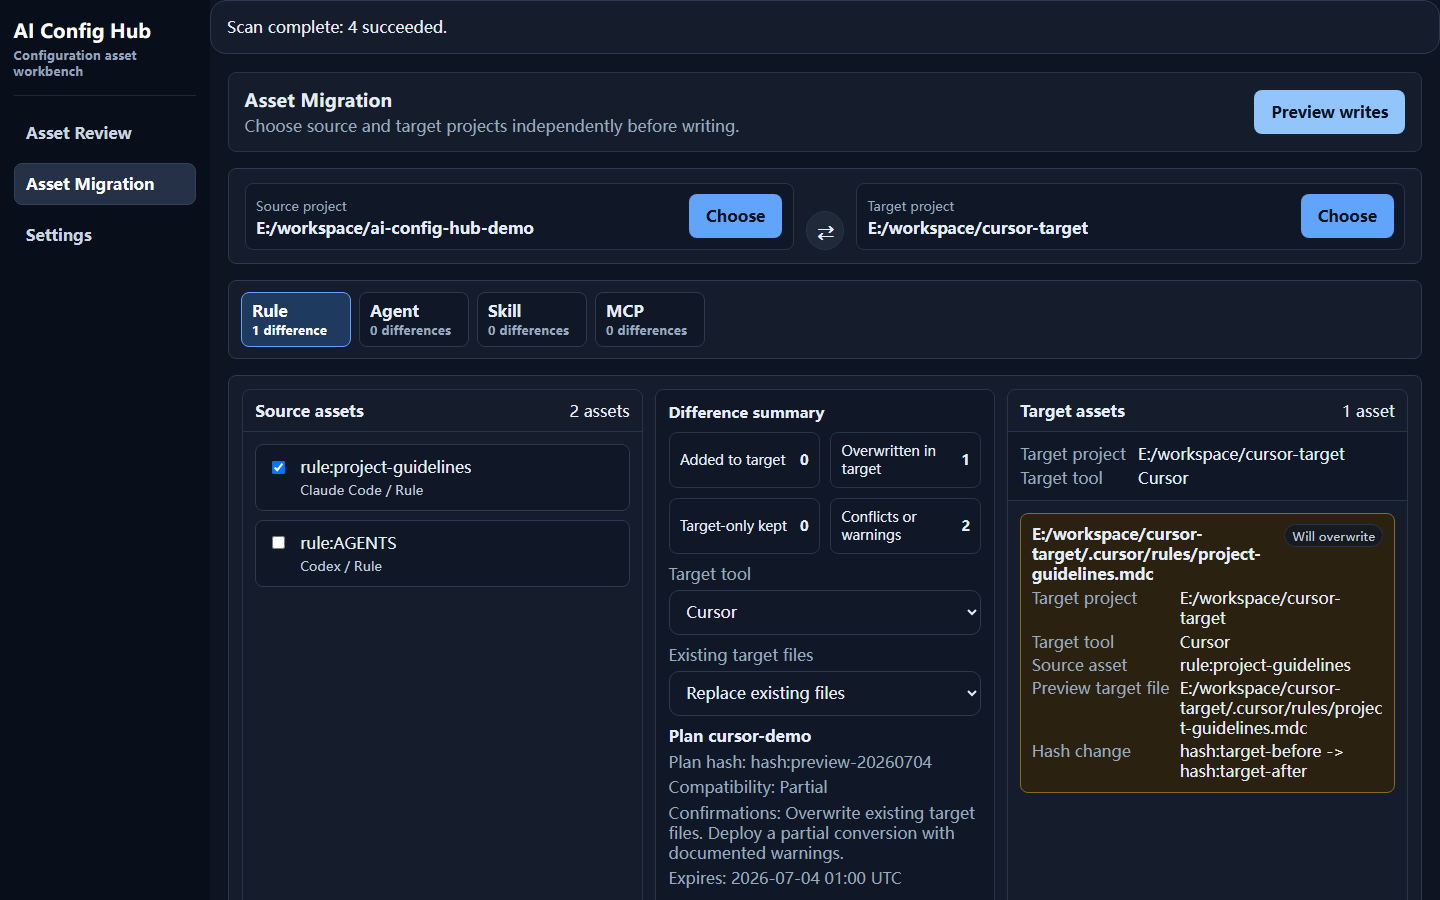
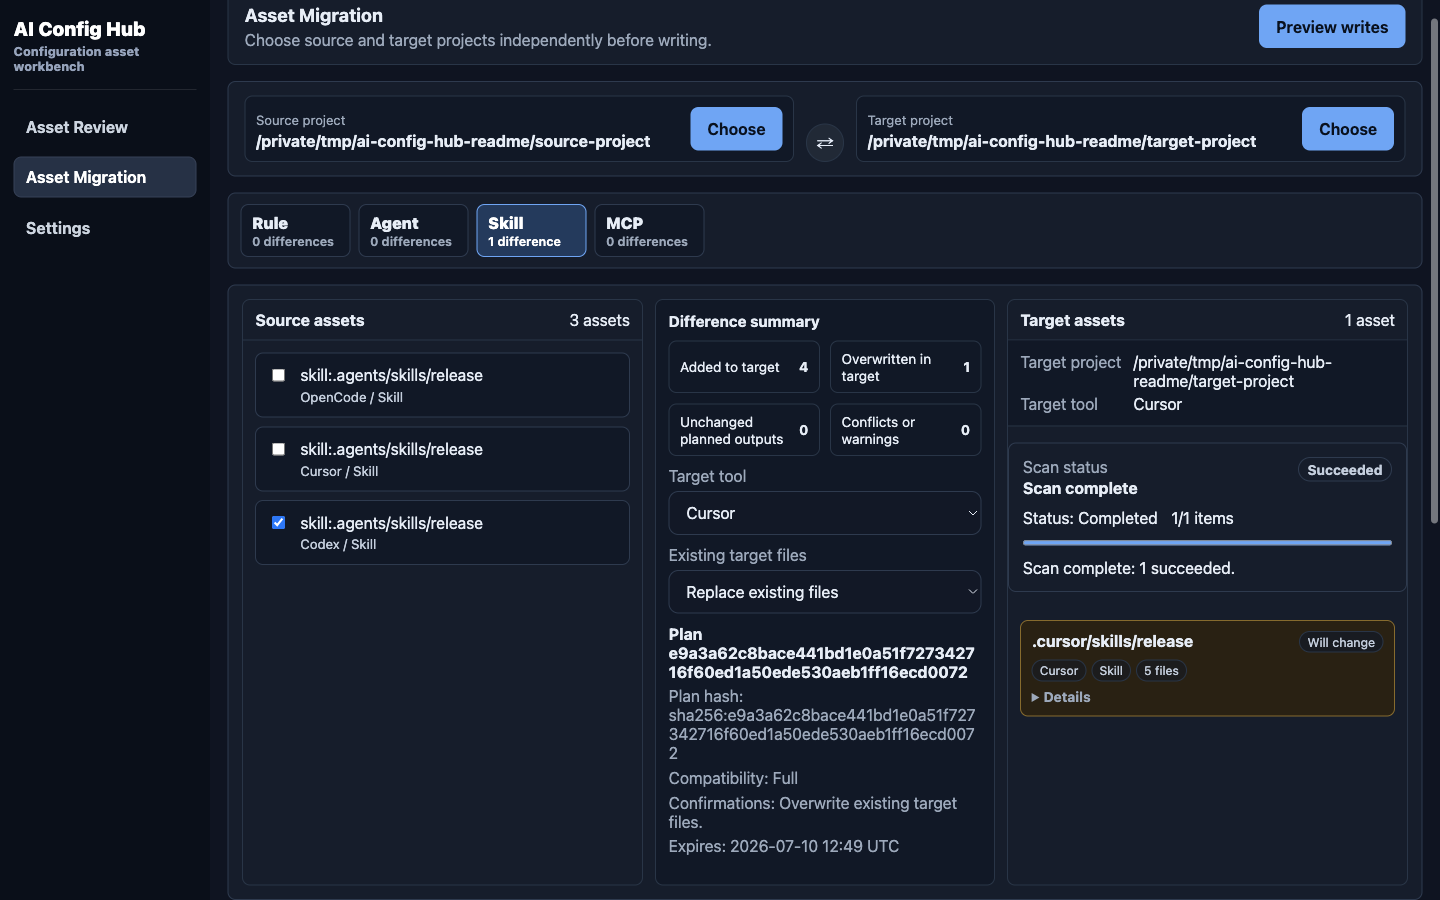
docs: refresh implemented features and screenshots

diff --git a/README.en.md b/README.en.md
@@ -18,13 +18,17 @@ It is not a simple file sync tool. Before writing, AI Config Hub surfaces target
 
 ### Current Experience
 
-The desktop app is the most complete UX entry point today. Its sidebar has three workspaces:
+The current code version is `0.2.18`. The Electron desktop app is the most complete UX entry point, with three workspaces in its sidebar:
 
-- **Asset Review**: select a current project and scan automatically; filter Rules, Agents, Skills, and MCP assets by tool and resource type; review logical keys, source directories, load state, diagnostic counts, and asset detail.
-- **Asset Migration**: choose source and target projects independently, select source assets, target tool, and conflict policy, create a write preview, then confirm hashes, field loss, overwrite/delete risks, and execute the migration.
-- **Settings**: configure theme and language, including system, light, dark, English, and Simplified Chinese.
+- **Asset Review**: select a current project and scan automatically; browse Rules, Agents, Skills, and MCP by tool and resource type; inspect scope, source, loaded/covered/disabled state, and diagnostic counts. Workspace diagnostics can be filtered by severity and diagnostic code, then located back to the associated asset.
+- **Asset Migration**: choose or swap source and target projects independently, compare both sides, and select source assets, a target tool, and a `fail`, `replace`, or `merge` conflict policy. Every migration must create a preview before hashes, field loss, and overwrite/delete risks are confirmed for execution.
+- **Settings**: configure system/light/dark theme and English/Simplified Chinese language; selectively clear scan cache, deployment history, or preferences without deleting project configuration or recovery backups. Packaged Windows and Linux builds can also check for, download, and restart to install updates.
 
-The asset detail dialog can open the source file, enable or disable an asset, load effective configuration, and show normalized content, references, contributors, ignored assets, and effective diagnostics. The migration page shows difference summaries, target file changes, retained/dropped/transformed fields, source drift, source/target hash snapshots, and task execution status.
+The asset detail dialog can open a source, choose an appropriate enable/disable method, inspect normalized content and references, and load effective configuration. Effective resolution explains inherited, merged, and overridden contributors; ignored assets and covering relationships; diagnostics; and the snapshot revision.
+
+Skills are handled as complete directory packages rather than only as a `SKILL.md` file. Asset Review summarizes file, folder, text, and binary counts and shows the package tree. Migration generates the target `SKILL.md`, copies text and binary support files, and checks package-wide hashes and drift. The move-file disablement method moves the entire Skill directory package and allows it to be restored.
+
+Scans report phases, progress, and item failures, and can be cancelled before the index commit begins. The desktop app watches scanned roots by default and incrementally refreshes the index; changes affecting either side of a migration retire stale previews. After a renderer reload, the app also attempts to reconnect to active scan, deployment, or rollback tasks.
 
 ### Visual Overview
 
@@ -34,11 +38,13 @@ The asset detail dialog can open the source file, enable or disable an asset, lo
 
 #### Current Desktop Workflow
 
-The screenshots come from the desktop review and migration flow and are cropped so the local path bar is not shown.
+The screenshots use a sanitized demo project and one shared English dark-theme capture set.
 
-| Asset review                                                                                 | Migration preview                                                                                            | Settings                                                                                   |
-| -------------------------------------------------------------------------------------------- | ------------------------------------------------------------------------------------------------------------ | ------------------------------------------------------------------------------------------ |
-| <img src="./docs/readme/assets/desktop-assets.png" alt="Asset review interface" width="300"> | <img src="./docs/readme/assets/desktop-migration-preview.png" alt="Migration preview interface" width="300"> | <img src="./docs/readme/assets/desktop-settings.png" alt="Settings interface" width="300"> |
+| Asset review and diagnostics                                                                                                         | Skill package detail                                                                                             |
+| ------------------------------------------------------------------------------------------------------------------------------------ | ---------------------------------------------------------------------------------------------------------------- |
+| <img src="./docs/readme/assets/desktop-assets.png" alt="Asset review, Skill package summary, and workspace diagnostics" width="420"> | <img src="./docs/readme/assets/desktop-skill-package.png" alt="Skill package summary and file tree" width="420"> |
+| **Migration preview**                                                                                                                | **Settings and local data**                                                                                      |
+| <img src="./docs/readme/assets/desktop-migration-preview.png" alt="Skill package migration preview" width="420">                     | <img src="./docs/readme/assets/desktop-settings.png" alt="Settings and local-data clearing" width="420">         |
 
 #### Architecture Overview
 
@@ -46,41 +52,55 @@ The screenshots come from the desktop review and migration flow and are cropped 
 
 ### Implemented Capabilities
 
-- Multi-tool scanning for Claude Code, Cursor, Codex, and OpenCode Rules, Agents, Skills, and MCP assets.
-- Unified asset model that normalizes tool-specific files into `rule`, `agent`, `skill`, and `mcp` resources while preserving source, scope, hash, and diagnostic evidence.
-- Asset review by tool, resource type, scope, and diagnostics, with source opening, enable/disable controls, and diagnostic location.
-- Effective configuration explanation for contributors, inheritance, merge, override, ignored assets, and effective diagnostics.
-- Diagnostics and reports for parsing, compatibility, permissions, conflicts, literal secret risk, drift, deployment, and verification; the CLI can export diagnostics.
-- Migration previews with plans, diffs, compatibility results, field loss, source/target hashes, and target impact.
-- Controlled deployment from a fresh preview plan hash, with required confirmations for overwrite, partial conversion, and delete risks.
-- Recovery evidence through CLI and API support for deployment/rollback history, rollback execution, task events, and local Git snapshot evidence.
-- Settings and localization for desktop theme, language, settings revisions, English, and Simplified Chinese.
-- Multiple entry points: the desktop app for the main interactive workflow, the CLI for automation and audit, and the local Web UI for Local API connection, scanning, asset listing, and task events.
+| Capability                | Current implementation                                                                                                                                                                                                                                                  |
+| ------------------------- | ----------------------------------------------------------------------------------------------------------------------------------------------------------------------------------------------------------------------------------------------------------------------- |
+| Multi-tool model          | Built-in adapters for Claude Code, Cursor, Codex, and OpenCode normalize tool-specific files into `rule`, `agent`, `skill`, and `mcp`, preserving user/project/directory scope, native identity, source files, content hashes, and diagnostic evidence.                 |
+| Scanning and indexing     | Full and incremental scans, tool filters, path-boundary and symlink-escape protection, cancellation, phase progress, partial-success summaries, file watching, and automatic incremental refresh. Scanning does not execute Skills, MCP servers, or referenced scripts. |
+| Asset review              | Logical keys, scopes, source summaries, load state, diagnostic counts, and detail; external-editor opening; severity/code diagnostic filters and location; normalized content, references, and complete Skill package trees.                                            |
+| Effective configuration   | Tool-specific precedence resolution returns final configuration, inherited/merged/overridden contributors, ignored or covered assets, effective diagnostics, and a snapshot revision.                                                                                   |
+| Asset enablement          | Depending on the asset and tool, disable through a native switch, move a file or whole Skill package, remove a configuration entry, or ignore only in the Hub; persist recovery records and enable again.                                                               |
+| Diagnostics and reports   | Parsing, Skill metadata/reference/size limits, compatibility, permission, conflict, literal-secret risk, drift, deployment, and verification diagnostics. CLI/API reports support project, tool, severity, and time filters with JSON or Markdown export.               |
+| Migration preview         | Cross-tool compatibility and retained/transformed/dropped fields; package-grouped file changes, diffs, source/target hashes, difference summaries, required confirmations, and expiry. Plans support generated-file, copy, and symlink operations.                      |
+| Controlled writes         | Only fresh previews with a matching plan hash execute; source/target drift and overwrite/partial-conversion/delete confirmations are rechecked. Execution uses path locks, backups, atomic writes, rescan verification, and compensation on failure.                    |
+| History and recovery      | CLI/API deployment and rollback history, detail, rollback execution, task events, and local Git snapshot evidence. Rollback checks current targets and backup integrity. Unsafe failures activate a recovery lock that blocks later deployment.                         |
+| Settings and distribution | Theme, language, revision-conflict protection, and controlled local-data clearing; Windows x64 NSIS, macOS x64/arm64 DMG, and Linux x64 AppImage packaging with checksums, SBOMs, and release evidence. Linux retains a glibc 2.28 compatibility audit.                 |
 
-See [docs/implementation/phase-status.md](./docs/implementation/phase-status.md) for the current implementation status. Diagnostics, conversion, deployment, the central asset library, Git asset repository primitives, Local API, local Web UI, and three-platform packaging are covered for the current tracked scope; team identity, approval flows, hosted collaboration services, and online sharing markets remain outside the MVP boundary.
+#### Entry-point coverage and boundaries
+
+- **Desktop**: asset review, effective configuration, migration preview/deployment, and settings. There is currently no History workspace in the sidebar; rollback and complete history queries are primarily exposed through CLI/API.
+- **CLI**: scanning and status lookup, asset query and enablement, effective configuration, diagnostics/export, migration preview, deployment, history, and rollback for automation, CI, and audit.
+- **Local API / Web UI**: `packages/local-api` is an embeddable local HTTP/SSE server library. It binds to loopback by default and enforces Bearer authentication, Origin restrictions, and no-store responses. `apps/web` is currently a lightweight client for connecting to an already-running Local API, scanning, listing assets, and viewing task events; the repository does not yet provide a standalone Local API launch command.
+- **Library-level capabilities**: `packages/asset-library` implements a personal central asset library, source tracking, and Preset preview/application. `packages/git` implements remote Git asset-repository primitives. These are tested foundation libraries, but are not yet wired into desktop or CLI user workflows.
+
+The normalized model currently excludes other tool asset families such as Hooks, Commands, and Plugins, and conversion is not guaranteed to preserve every field losslessly. Fields that cannot be represented are reported as partial compatibility, transformations, or dropped-field evidence in the preview. Team identity, approval flows, hosted collaboration services, and online sharing markets remain outside the MVP boundary.
+
+See [docs/implementation/phase-status.md](./docs/implementation/phase-status.md) for implementation evidence. “Complete” there refers to the tracked code/test scope, not to every capability having a complete user interface.
 
 ### CLI
 
-The CLI exposes the same core use cases as the desktop app and is useful for scripting, CI checks, and audit:
+The CLI exposes shared core use cases and is useful for scripting, CI checks, and audit:
 
 ```bash
 ai-config-hub scan <roots...>
+ai-config-hub scan status <task-id>
 ai-config-hub assets list --tool claude-code
 ai-config-hub assets get <asset-id> --include normalized --include diagnostics
+ai-config-hub assets disable <asset-id> --method move_file
+ai-config-hub assets enable <asset-id>
 ai-config-hub effective --tool claude-code --project <project-id> --scope <scope-id>
-ai-config-hub diagnose --severity error
+ai-config-hub diagnose --severity error --code <diagnostic-code>
 ai-config-hub diagnose export --format markdown
 ai-config-hub migrate --dry-run --asset <asset-id> --to cursor --scope <target-scope>
-ai-config-hub deploy <plan-id> --plan-hash <hash> --yes
+ai-config-hub deploy <plan-id> --plan-hash <hash> --confirm overwrite --yes
 ai-config-hub history --kind deployment
 ai-config-hub rollback <deployment-id> --yes
 ```
 
-All major CLI commands support `--json`. `migrate` only creates a preview plan; actual writes must be explicitly confirmed through `deploy`.
+All major CLI commands support `--json`. `migrate` only creates a preview plan; actual writes must be explicitly confirmed through `deploy`. Pass each value returned in `requiredConfirmations` through `--confirm`; possible values are `partial_conversion`, `overwrite`, and `delete`. The sample uses `overwrite` only to illustrate a plan with overwrite risk.
 
 ### Local API And Web UI
 
-`packages/local-api` provides a local HTTP/SSE API with authentication and origin restrictions. `apps/web` is a lightweight Local API client for entering a local API URL and token, starting scans, refreshing assets, and viewing task events. The complete review and migration workflow lives in the desktop app.
+`packages/local-api` provides an embeddable local HTTP/SSE API with authentication and origin restrictions. `apps/web` is a lightweight Local API client for entering the URL and token of an already-running server, starting scans, refreshing assets, and viewing task events. The repository currently has no standalone Local API server launch command; the complete review and migration workflow lives in the desktop app.
 
 ### Design Principles
 